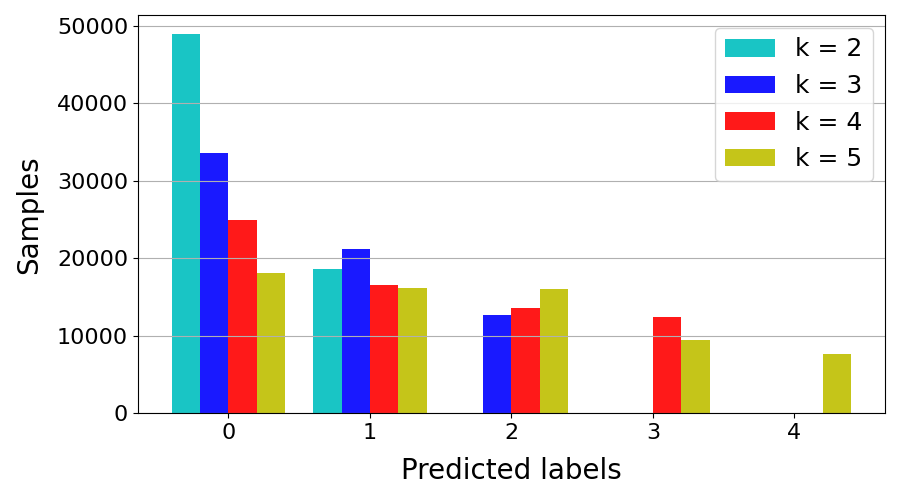
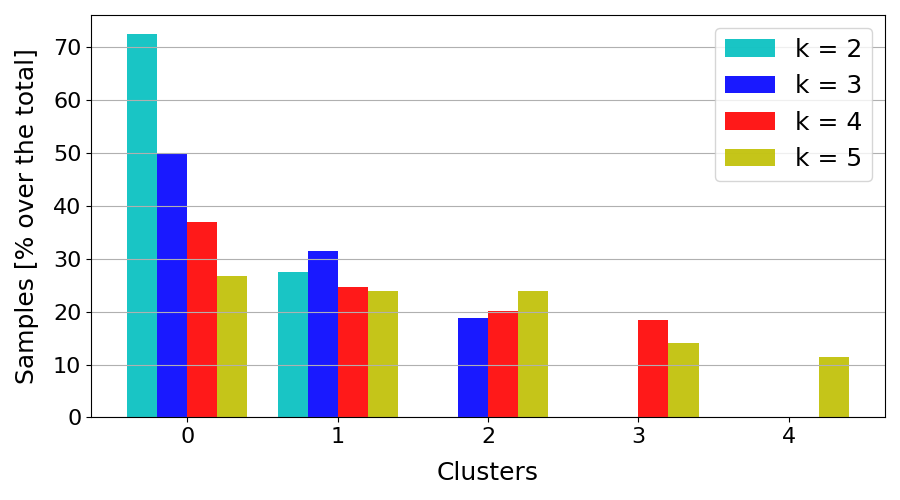
Plotted different results for the Connect-4 dataset.

diff --git a/W1/w1/models/connect4_optics.py b/W1/w1/models/connect4_optics.py
@@ -17,17 +17,15 @@ df_connect4_encoded_subset = pd.read_pickle(
 
 min_pts= 50
 
-metrics = ['l2']
-algorithms = ['kd_tree']
+metrics = ['l2', 'l1', 'chebyshev']
+algorithms = ['kd_tree', 'brute']
 
-#metrics = ['l2', 'l1', 'chebyshev']
-#algorithms = ['kd_tree', 'brute']
-
+"""
 start = time.time()
 optics_clusterings = []
 optics_clusterings.append(
     OPTICS(min_samples=min_pts, metric='l2', algorithm='kd_tree').fit(df_connect4_encoded.iloc[:, :-1]))
-"""
+
 optics_clusterings.append(
     OPTICS(min_samples=min_pts, metric='l2', algorithm='brute').fit(df_connect4_encoded_subset.iloc[:, :-1]))
 optics_clusterings.append(
@@ -38,7 +36,7 @@ optics_clusterings.append(
     OPTICS(min_samples=min_pts, metric='chebyshev', algorithm='kd_tree').fit(df_connect4_encoded_subset.iloc[:, :-1]))
 optics_clusterings.append(
     OPTICS(min_samples=min_pts, metric='chebyshev', algorithm='brute').fit(df_connect4_encoded_subset.iloc[:, :-1]))
-"""
+
 end = time.time()
 
 with open('connect4_optics', 'wb') as file:
@@ -48,8 +46,8 @@ comp_time = end - start
 print(f'OPTICS computation time: {comp_time / 60.} minutes')
 with open('info.txt', 'w') as f:
     f.write('*OPTICS computation time: \n' + str(comp_time))
-
-with open('connect4_optics', 'rb') as file:
+"""
+with open('connect4_optics_metrics', 'rb') as file:
     optics_clusterings = pickle.load(file)
 
 
@@ -84,22 +82,43 @@ def optics_plots(df, models):
 # optics_plots(df_connect4_encoded, optics_clusterings)
 
 path_val = os.path.join('..', '..', 'validation', 'connect4_val.txt')
+plt.rcParams['xtick.labelsize'] = 16
+plt.rcParams['ytick.labelsize'] = 16
+plt.rcParams['axes.labelsize'] = 18
+plt.rcParams['axes.labelpad'] = 10
+plt.rcParams['axes.labelpad'] = 10
+plt.rcParams['legend.fontsize'] = 15
+
+colors = ['c', 'b', 'r', 'y', 'g', 'm']
+plt.figure(figsize=(9, 5))
+plt.grid(axis='y')
+plt.xlabel('Clusters')
+plt.ylabel('Samples [% over the total]')
+
 for i, m in enumerate(metrics):
     for j, a in enumerate(algorithms):
         optics_model = optics_clusterings[i + j]
         unique, counts = np.unique(optics_model.labels_, return_counts=True)
 
+        counts = counts / len(optics_model.labels_) * 100
+        plt.bar(unique + (2*i+j) * 0.15, counts, width=0.15, align='center', alpha=0.9, color=colors[2*i+j])
+
         with open(path_val, 'a') as f:
             f.write(
                 f'\n \n*OPTICS: min_pts = {min_pts}, unique = {unique}, counts = {counts}  metric = {m}, algorithm = {a}')
 
-        utils.print_metrics(df_connect4_encoded.iloc[:, :-1], df_connect4_encoded['class'],
+        utils.print_metrics(df_connect4_encoded_subset.iloc[:, :-1], df_connect4_encoded_subset['class'],
                             optics_model.labels_,
                             file_path=path_val, isOPTICS=True)
 
-        """
-        plt.bar(unique, counts)
-        """
+
+plt.xticks(np.arange(4)-1+0.37, ['-1', '1', '2', '3'])
+plt.tight_layout()
+plt.legend(['L2, kd_tree', 'L2, brute', 'L1, kd_tree', 'L1, brute', 'Chebyshev, kd_tree', 'Chebyshev, brute'])
+plt.savefig(os.path.join('..', '..', 'figures', 'connect4', 'optics_barplot'))
+plt.show()
+
+
 
 """
 unique, counts = np.unique(optics_clusters.labels_, return_counts=True)

diff --git a/W1/w1/models/connect4_k-modes.py b/W1/w1/models/connect4_k-modes.py
@@ -52,29 +52,28 @@ def k_modes_plots(df, pred_labels):
 path_val = os.path.join('..', '..', 'validation', 'connect4_val.txt')
 plt.rcParams['xtick.labelsize'] = 16
 plt.rcParams['ytick.labelsize'] = 16
-plt.rcParams['axes.labelsize'] = 20
+plt.rcParams['axes.labelsize'] = 18
 plt.rcParams['axes.labelpad'] = 10
 plt.rcParams['axes.labelpad'] = 10
 plt.rcParams['legend.fontsize'] = 18
 
-
 colors = ['c', 'b', 'r', 'y', 'g']
 plt.figure(figsize=(9, 5))
 plt.grid(axis='y')
-plt.xlabel('Predicted labels')
-plt.ylabel('Samples')
+plt.xlabel('Clusters')
+plt.ylabel('Samples [% over the total]')
 
 for i, pred_labels in enumerate(k_modes_clusterings):
     unique, counts = np.unique(pred_labels, return_counts=True)
+    counts = counts/len(pred_labels)*100
     plt.bar(unique+i*0.2, counts, width= 0.2, align='center', alpha=0.9, color=colors[i])
 
-    """
-    #with open(path_val, 'a') as f:
+    with open(path_val, 'a') as f:
         f.write(f'\n \n*K-MODES: k = {i+2}')
 
     utils.print_metrics(df_connect4_encoded.iloc[:, :-1], df_connect4['class'], pred_labels,
                             file_path=path_val, isOPTICS=False)
-    """
+
 plt.xticks(np.arange(5)+0.3, ['0', '1', '2', '3', '4'])
 plt.tight_layout()
 plt.legend(['k = 2', 'k = 3', 'k = 4', 'k = 5'])

diff --git a/W1/w1/processing/process_connect4.py b/W1/w1/processing/process_connect4.py
@@ -30,21 +30,3 @@ pd.to_pickle(df_connect4_encoded.sample(n=10000), os.path.join(save_path, 'encod
 pos_values = set(df_connect4_encoded['a1'])
 # print(f'Possible values after encoding: {pos_values}')
 
-
-"""
-connect_pca = PCA(2).fit_transform(df_connect_encoded)
-df_connect_encoded_pca = pd.DataFrame(connect_pca, columns=['a1', 'a2'])
-print(df_connect_encoded_pca.head())
-"""
-"""
-
-classes = KModes(df_connect, k=4, max_iter=10).run('bisecting', 'simple')
-print(classes.value_counts())
-print(correct_class.value_counts())
-np.save('predicted_classes_k_modes.npy', classes)
-
-classes = np.load('../predicted_classes_k_modes.npy')
-utils.print_metrics(df_connect_encoded, true_class, classes, 4)
-"""
-
-
